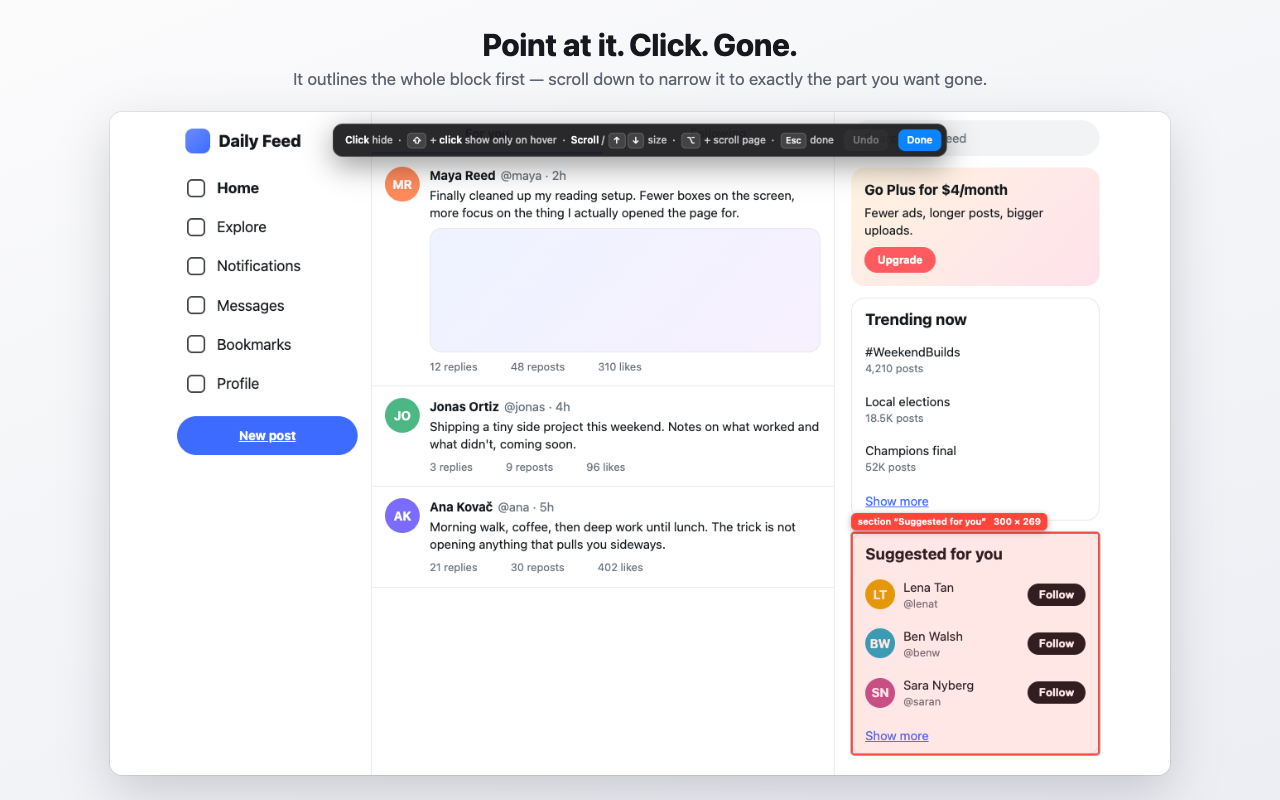
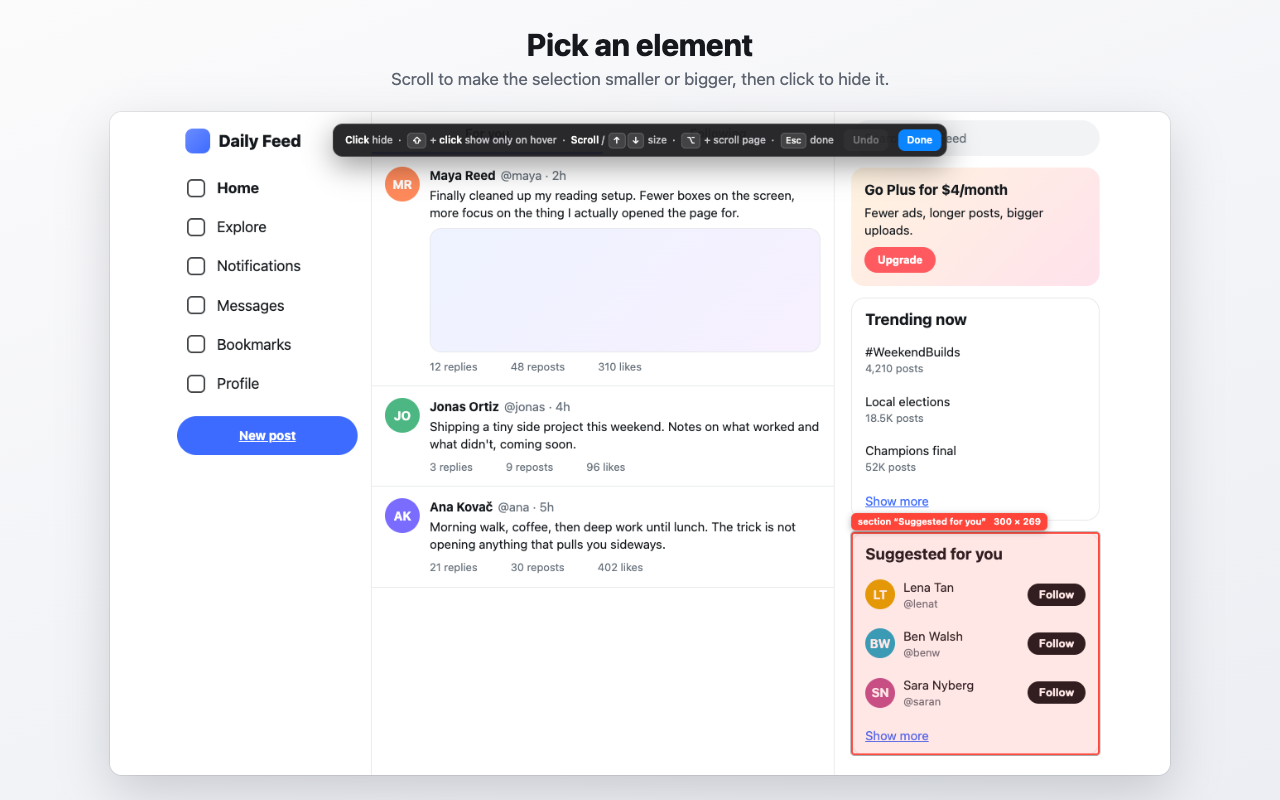
[main] - README: before/after, shorter plain text

Changed region(s): [[0.2188, 0.0312, 0.7812, 0.125]]

diff --git a/store/make-assets.js b/store/make-assets.js
@@ -32,16 +32,28 @@ function popupFrame(popupShot, w, h) {
   return `<!doctype html><html><body style="margin:0;width:1280px;height:800px;overflow:hidden;
     background:linear-gradient(160deg,#fbfbfc,#eceef3);font-family:${FONT};color:#16181d">
     <div style="position:absolute;left:120px;top:0;bottom:0;width:520px;display:flex;flex-direction:column;justify-content:center">
-      <div style="font-size:40px;font-weight:780;letter-spacing:-.5px;line-height:1.12">Everything you hid,<br>in one list.</div>
+      <div style="font-size:40px;font-weight:780;letter-spacing:-.5px;line-height:1.12">Hidden on<br>this site</div>
       <ul style="margin:28px 0 0;padding:0;list-style:none;font-size:19px;line-height:1.5;color:#3c424c">
-        <li style="margin-bottom:14px"><b style="color:#16181d">Point at a row</b> — the element shows again, outlined.</li>
-        <li style="margin-bottom:14px"><b style="color:#16181d">✕</b> brings it back for good.</li>
-        <li style="margin-bottom:14px"><b style="color:#16181d">↖</b> keeps it invisible until you point at its place.</li>
-        <li><b style="color:#16181d">Hold ⌥ / Alt</b> on the page to peek at everything hidden.</li>
+        <li style="margin-bottom:14px">Hover a row to preview the element.</li>
+        <li style="margin-bottom:14px">Click ✕ to bring it back.</li>
+        <li style="margin-bottom:14px">Click ↖ to show it only on hover.</li>
+        <li>Hold Alt on the page to see everything hidden.</li>
       </ul>
     </div>
     <img src="${dataUrl(popupShot)}" style="position:absolute;right:150px;top:${Math.round((800 - h) / 2)}px;width:${w}px;height:${h}px;
       border-radius:14px;box-shadow:0 0 0 1px rgba(0,0,0,.1),0 24px 60px rgba(20,24,40,.25)">
+  </body></html>`;
+}
+
+// README image: the same page before and after, side by side. Transparent around the two
+// shots and mid-gray labels, so it sits well on GitHub's light and dark themes.
+function beforeAfter(before, after) {
+  const panel = (shot, label) => `<figure style="margin:0;width:800px">
+      <figcaption style="margin:0 0 10px 2px;font-size:20px;font-weight:600;color:#8b949e">${label}</figcaption>
+      <img src="${dataUrl(shot)}" style="display:block;width:800px;height:500px;border-radius:10px;box-shadow:0 0 0 1px rgba(128,128,128,.35)">
+    </figure>`;
+  return `<!doctype html><html><body style="margin:0;background:transparent;font-family:${FONT}">
+    <div style="display:flex;gap:40px;padding:12px 20px 20px">${panel(before, 'Before')}${panel(after, 'After')}</div>
   </body></html>`;
 }
 
@@ -83,6 +95,8 @@ function promoTile(icon) {
     const extId = sw.url().split('/')[2];
     const page = ctx.pages()[0] || (await ctx.newPage());
     await page.goto(`${base}/demo.html`);
+    await wait(300);
+    const rawBefore = await page.screenshot();
     const tabId = await sw.evaluate(async (h) => (await chrome.tabs.query({})).find((t) => (t.url || '').includes(h)).id, HOST);
     const startPicker = () => sw.evaluate(async (id) => chrome.tabs.sendMessage(id, { type: 'startPicker' }), tabId);
 
@@ -135,9 +149,9 @@ function promoTile(icon) {
     const compose = await ctx.newPage();
     await compose.setViewportSize({ width: 1280, height: 800 });
     const shots = [
-      ['screenshot-1-pick.png', frame(raw1, 'Point at it. Click. Gone.', 'It outlines the whole block first — scroll down to narrow it to exactly the part you want gone.')],
-      ['screenshot-2-clean.png', frame(raw2, 'The page, minus the noise.', 'Hidden with CSS before the page paints — nothing flashes in first, even on apps that load late.')],
-      ['screenshot-3-peek.png', frame(raw3, 'Hold ⌥ / Alt to peek.', 'Everything you hid comes back, outlined, until you let go.')],
+      ['screenshot-1-pick.png', frame(raw1, 'Pick an element', 'Scroll to make the selection smaller or bigger, then click to hide it.')],
+      ['screenshot-2-clean.png', frame(raw2, 'After hiding', 'Hidden elements stay hidden on every visit and don’t show up while the page loads.')],
+      ['screenshot-3-peek.png', frame(raw3, 'Hold Alt to see what’s hidden', 'Hidden elements show up with an outline until you let go.')],
       ['screenshot-4-popup.png', popupFrame(popupShot, 340 * 1.25, h * 1.25)],
     ];
     for (const [name, html] of shots) {
@@ -145,6 +159,13 @@ function promoTile(icon) {
       await compose.waitForLoadState('load');
       await compose.screenshot({ path: path.join(OUT, name) });
     }
+    const docs = path.join(EXT, 'docs');
+    fs.mkdirSync(docs, { recursive: true });
+    await compose.setViewportSize({ width: 1680, height: 576 });
+    await compose.setContent(beforeAfter(rawBefore, raw2));
+    await compose.waitForLoadState('load');
+    await compose.screenshot({ path: path.join(docs, 'before-after.png'), omitBackground: true });
+
     await compose.setViewportSize({ width: 440, height: 280 });
     await compose.setContent(promoTile(fs.readFileSync(path.join(EXT, 'icons/icon128.png'))));
     await compose.waitForLoadState('load');

diff --git a/README.md b/README.md
@@ -1,61 +1,33 @@
 # Hide It
 
-A Chrome extension to point at any part of a website and hide it for good: sidebars, suggestion boxes, promos, trending lists, sticky banners. Hidden parts stay hidden on every later visit, and they don't flicker in first.
+A Chrome extension for hiding parts of websites. Hidden elements stay hidden on every visit and don't show up while the page loads.
 
-![Picking an element to hide](store/assets/screenshot-1-pick.png)
+![Before and after](docs/before-after.png)
 
-## Features
+## Install
 
-- **Point, click, gone.** The outline starts on the whole block under the pointer. Scroll down (or press ↓) to narrow it, and scroll up (or press ↑) to widen it. Click to hide.
-- **No flicker.** Rules are CSS (`display: none !important`) added before the page paints. This also works on apps that build their page long after it loads.
-- **Peek.** Hold ⌥ / Alt on a page to see everything you hid, outlined, until you let go.
-- **Show on hover.** ⇧-click keeps an element invisible but in its place; point at that spot and it fades in.
-- **Loose text.** Text written straight into a container next to other blocks, like an SEO paragraph under a grid, can be hidden on its own.
-- **The list.** The popup lists what's hidden on the current site:
-  - point at a row to see that element again;
-  - ✕ brings it back for good;
-  - the switch pauses the site.
-- **Between profiles.** *Copy all rules* in one Chrome profile, then *Paste rules* in another.
-- **Undo.** Press ⌘Z / Ctrl+Z while picking.
+1. Clone this repo.
+2. Open `chrome://extensions` and turn on Developer mode.
+3. Click Load unpacked and pick the folder.
 
-Start the picker from the toolbar icon, with **⌥⇧H** / **Alt+Shift+H**, or by right-clicking and choosing **Hide an element on this page…**.
+## Use
 
-## Install from source
+- Click the extension icon or press Alt+Shift+H, then point at the page. Scroll to make the selection smaller or bigger, and click to hide it.
+- Shift+click keeps the element in place but invisible. It shows up again when you hover over it.
+- Hold Alt to see everything you've hidden on the page.
+- The popup lists what's hidden on the current site. Hover a row to preview it, or click ✕ to bring it back.
+- Copy all rules / Paste rules moves your rules to another Chrome profile.
 
-1. Download or clone this repository.
-2. Open `chrome://extensions` and turn on **Developer mode**.
-3. Click **Load unpacked** and choose the repository folder.
-
-## Privacy
-
-Hide It has no servers, no accounts and no analytics. It never reads or sends the content of the pages you visit. Your rules are saved only in your browser's local extension storage (`chrome.storage.local`).
-
-## How it works
-
-| File | Role |
-| --- | --- |
-| `content.js` | Runs at `document_start` on every page. It adds one `<style>` with the site's rules and contains the element picker. |
-| `gate.js` | Registered only for sites that have rules. It keeps the page transparent for the few milliseconds before the saved rules load, so a fast page can't paint a hidden element first. |
-| `background.js` | Keyboard shortcut, context menu, toolbar badge, and the `gate.js` registration. |
-| `popup.*` | The list of hidden elements, plus copy / paste between profiles. |
+Rules are stored locally in Chrome. The extension doesn't make any network requests.
 
 ## Development
 
 ```sh
 npm install
-npx playwright install chromium   # once: the browser the tests drive
-npm test            # end-to-end tests in Playwright's Chromium (headless, own profile)
-npm run assets      # re-render the Chrome Web Store images in store/assets
-npm run icons       # re-draw icons/ (macOS, Swift)
-npm run package     # dist/hide-it-<version>.zip for the Chrome Web Store
+npx playwright install chromium
+npm test
 ```
-
-The tests use mock pages in `test/site/` and check, among other things:
-
-- that hidden elements never appear in a single frame across repeated reloads;
-- the picker's levels and the wheel steps;
-- copy / paste between two separate profiles.
 
 ## License
 
-[MIT](LICENSE)
+MIT

diff --git a/store/LISTING.md b/store/LISTING.md
@@ -7,33 +7,24 @@ Images: `store/assets/` (re-render with `node store/make-assets.js`).
 
 **Name:** Hide It
 
-**Summary** (82/132 chars):
-Point at any part of a website and hide it for good — no flicker, undo any time.
+**Summary** (same as the manifest description, 89/132 chars):
+Hide parts of websites. Hidden elements stay hidden and never show up while a page loads.
 
 **Category:** Productivity → Tools · **Language:** English
 
 **Description:**
 
-Hide the parts of a website you don't want to see — sidebars, suggestion boxes, promos, trending lists, sticky banners — and they stay hidden every time you come back.
+Hide sidebars, suggestion boxes, promos or anything else on a website. They stay hidden every time you come back, and they don't show up while the page loads.
 
-HOW IT WORKS
-• Click the Hide It icon (or press ⌥⇧H / Alt+Shift+H) and point at the page.
-• The outline starts on the whole block under the pointer — scroll down (or ↓) to narrow it to exactly the part you want gone, up (or ↑) to widen it.
-• Click. It's hidden — on this site, from now on.
-• Undo with ⌘Z / Ctrl+Z, or bring anything back from the list in the popup.
+How to use it:
+• Click the icon or press Alt+Shift+H, then point at the page.
+• Scroll to make the selection smaller or bigger, and click to hide it.
+• Shift+click keeps the element in place but invisible. It shows up again when you hover over it.
+• Hold Alt to see everything you've hidden on the page.
+• The popup lists what's hidden on the current site. Hover a row to preview it, or click ✕ to bring it back.
+• Undo with Cmd+Z / Ctrl+Z while picking.
 
-NO FLICKER
-Hidden elements are removed with CSS before the page paints, so they never flash in first — even on apps that build the page long after it loads.
-
-PEEK AND HOVER
-• Hold ⌥ / Alt on a page to see everything you hid, outlined, until you let go.
-• ⇧-click (or the ↖ button in the list) keeps an element invisible but in place: point at its spot and it fades in.
-
-THE LIST
-The popup lists what's hidden on the current site. Point at a row to see that element again, ✕ to bring it back for good, or switch the site off for a moment.
-
-PRIVATE BY DESIGN
-Everything stays in your browser. Hide It has no servers, no accounts, no analytics, and never reads or sends the content of the pages you visit.
+Rules are stored locally in Chrome. The extension doesn't make any network requests and doesn't collect any data.
 
 ## Images
 
